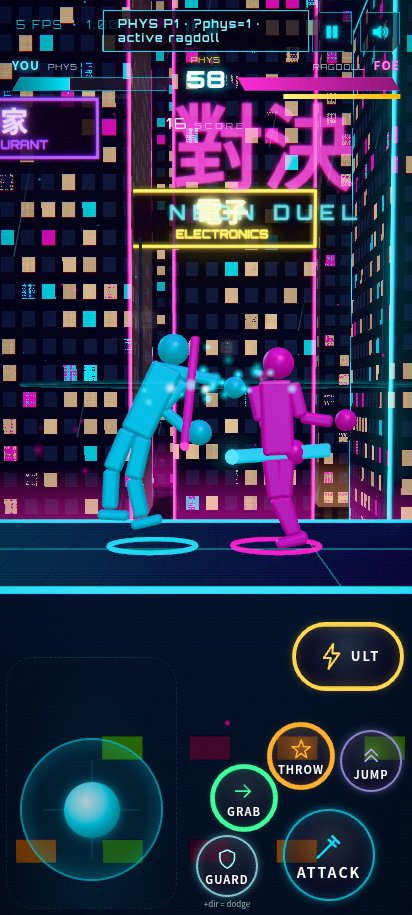
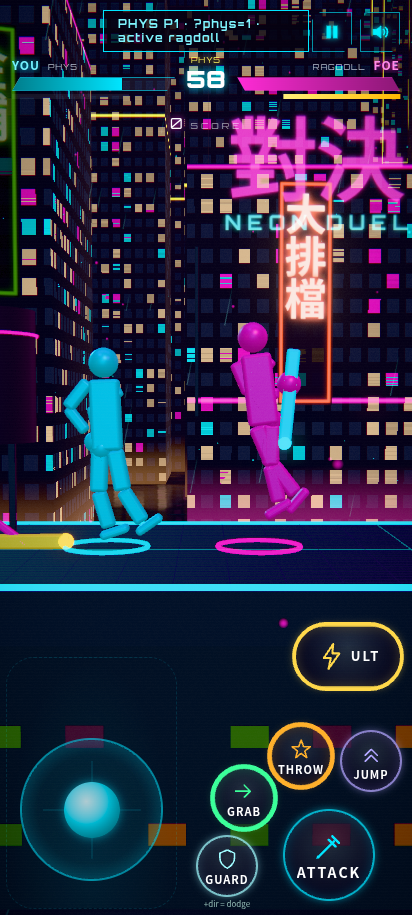
phys: visible kung-fu chamber — fix arm targets + longer windup
Stand uses raised guard (not hanging arms). Punch windup pulls lead fist
behind torso then thrust snaps forward (corrected joint signs). Longer
phases, speed-capped arm motors. Before/after shots under docs/shots/phys.

diff --git a/js/phys/ragdoll.js b/js/phys/ragdoll.js
@@ -22,18 +22,19 @@ export const POSE = { STAND: 'stand', WALK: 'walk', PUNCH: 'punch', HIT: 'hit', 
 
 export const SOFT = {
   // Pose motors: legs firm, arms softer; light upright assist; KO limp unlocks.
-  gain: 14, hipT: 78, knT: 58, ankT: 44, shT: 28, elT: 22, neckT: 14, wrT: 8,
+  gain: 14, hipT: 78, knT: 58, ankT: 44, shT: 38, elT: 32, neckT: 14, wrT: 10,
   upright: 48, uprightD: 14, walkK: 16, flinchT: 0.22,
   punchReach: 1.05, punchDmg: 16,
-  // Kung-fu punch phases (seconds)
-  punchWindup: 0.12, punchThrust: 0.16, punchRecover: 0.14,
+  // Kung-fu punch phases — long enough to READ on 30–60fps
+  punchWindup: 0.32, punchThrust: 0.22, punchRecover: 0.20,
   balanceBoost: 1.6, walkHz: 2.4,
 };
 
 /** Base joint targets (Landfall-style active ragdoll poses). */
 export const POSE_STAND = {
   hipF: 0.1, hipB: -0.06, knF: 0.28, knB: 0.25, ankF: 0.04, ankB: 0.04,
-  shF: -0.4, shB: 0.3, elF: 0.6, elB: 0.55, neck: 0, wrF: 0, wrB: 0,
+  // Raised guard — fists up, elbows bent (not hanging straight down)
+  shF: -1.05, shB: -0.75, elF: 1.35, elB: 1.25, neck: 0, wrF: 0.05, wrB: 0.05,
 };
 
 /** Neon weapon catalogue (original CYBER props — not Landfall clones). */
@@ -262,10 +263,12 @@ export function makePhysWorld() {
   return { world, a, b, weapons, events, ground };
 }
 
-function setMotor(j, targetAngle, gain, maxTorque) {
+function setMotor(j, targetAngle, gain, maxTorque, maxSpeed = 14) {
   if (!j) return;
   const ang = j.getJointAngle();
-  j.setMotorSpeed((targetAngle - ang) * gain);
+  let spd = (targetAngle - ang) * gain;
+  if (maxSpeed != null && Math.abs(spd) > maxSpeed) spd = Math.sign(spd) * maxSpeed;
+  j.setMotorSpeed(spd);
   if (maxTorque != null) j.setMaxMotorTorque(maxTorque);
 }
 
@@ -345,50 +348,57 @@ function walkPoseTargets(phase, face) {
   };
 }
 
-/** Kung-fu punch: windup (chamber) → thrust (extend) → recover. */
+/** Kung-fu punch: windup (chamber) → thrust (extend) → recover.
+ *  Targets are EXAGGERATED so chamber/thrust read clearly in silhouette. */
 function punchPoseTargets(face, phase = 'thrust') {
+  const f = face || 1;
   const base = {
     ...POSE_STAND,
-    hipF: POSE_STAND.hipF + 0.05,
-    hipB: POSE_STAND.hipB - 0.02,
-    knF: POSE_STAND.knF + 0.08,
-    knB: POSE_STAND.knB + 0.05,
-    // rear guard hand stays up
-    shB: 0.35 * face,
-    elB: 1.05,
-    neck: -0.06 * face,
+    hipF: POSE_STAND.hipF + 0.06,
+    hipB: POSE_STAND.hipB - 0.03,
+    knF: POSE_STAND.knF + 0.1,
+    knB: POSE_STAND.knB + 0.06,
+    // off-hand stays in high guard
+    shB: -1.1,
+    elB: 1.55,
+    neck: -0.05 * f,
     wrF: 0, wrB: 0,
   };
   if (phase === 'windup') {
-    // Chamber: fist pulls back near ribs, elbow bent
+    // CHAMBER: lead fist pulls BACK behind torso, elbow cocked (readable silhouette)
+    // Joint map (face+1): negative sh ⇒ fist behind; high el ⇒ bent.
     return {
       ...base,
-      hipF: base.hipF - 0.06 * face,
-      shF: 0.85 * face,   // shoulder back
-      elF: 1.85,          // elbow cocked
-      wrF: 0.15,
-      neck: 0.12 * face,
+      hipF: base.hipF - 0.06 * f,
+      shF: -1.9 * f,    // clearly behind torso
+      elF: 2.25,        // cocked (limit 2.7)
+      wrF: 0.25,
+      neck: 0.15 * f,
+      shB: -1.15,
+      elB: 1.55,
     };
   }
   if (phase === 'recover') {
-    // Ease fist back toward stand / guard
     return {
       ...base,
-      shF: -0.55 * face,
-      elF: 0.85,
-      shB: 0.25 * face,
-      elB: 0.75,
+      shF: POSE_STAND.shF,
+      elF: POSE_STAND.elF,
+      shB: POSE_STAND.shB,
+      elB: POSE_STAND.elB,
       neck: 0,
     };
   }
-  // thrust — full extension forward
+  // THRUST: lead arm snaps FORWARD toward foe, elbow opens
+  // Joint map (face+1): positive sh ⇒ fist forward/right.
   return {
     ...base,
-    hipF: base.hipF + 0.08,
-    shF: -1.75 * face,  // shoulder snaps forward
-    elF: 0.2,           // nearly straight (stay inside elbow limits)
-    wrF: -0.1,
-    neck: -0.12 * face,
+    hipF: base.hipF + 0.1,
+    shF: 2.25 * f,    // forward reach
+    elF: 0.15,        // nearly straight
+    wrF: -0.15,
+    neck: -0.15 * f,
+    shB: -0.75,
+    elB: 1.35,
   };
 }
 
@@ -418,7 +428,7 @@ function poseTargets(doll, intent) {
     default: {
       const st = { ...POSE_STAND };
       if (intent.guard) {
-        st.shF = -1.15; st.shB = -0.95; st.elF = 1.45; st.elB = 1.25;
+        st.shF = -1.4; st.shB = -1.25; st.elF = 1.7; st.elB = 1.55;
         st.hipF = 0.16; st.hipB = 0.05; st.knF = 0.4; st.knB = 0.38;
       }
       return st;
@@ -525,8 +535,10 @@ export function driveRagdoll(doll, intent, dt, world, weapons, foe = null) {
   const thrusting = doll.punchPhase === 'thrust';
   const winding = doll.punchPhase === 'windup';
   // Firm but solver-safe — too much torque blows the elbow past limits
-  const armG = g * (thrusting ? 1.55 : winding ? 1.4 : punching ? 1.15 : 0.9);
-  const armT = stiff * softMul * (thrusting ? 1.55 : winding ? 1.45 : punching ? 1.2 : 1);
+  // Arm drive: moderate gain + speed cap so exaggerated targets arrive without blowing joints
+  const armG = g * (thrusting ? 1.15 : winding ? 1.25 : punching ? 1.05 : 0.95);
+  const armT = stiff * softMul * (thrusting ? 1.7 : winding ? 1.8 : punching ? 1.3 : 1);
+  const armSpd = thrusting ? 14 : winding ? 11 : 9;
 
   setMotor(J.hipF, targets.hipF, legG, SOFT.hipT * legT);
   setMotor(J.hipB, targets.hipB, legG, SOFT.hipT * legT);
@@ -534,10 +546,10 @@ export function driveRagdoll(doll, intent, dt, world, weapons, foe = null) {
   setMotor(J.knB, targets.knB, legG, SOFT.knT * legT);
   if (J.ankF) setMotor(J.ankF, targets.ankF, legG, SOFT.ankT * legT);
   if (J.ankB) setMotor(J.ankB, targets.ankB, legG, SOFT.ankT * legT);
-  setMotor(J.shF, targets.shF, armG, SOFT.shT * armT);
-  setMotor(J.shB, targets.shB, g * 0.85, SOFT.shT * stiff * softMul);
-  setMotor(J.elF, targets.elF, armG, SOFT.elT * armT);
-  setMotor(J.elB, targets.elB, g * 0.85, SOFT.elT * stiff * softMul);
+  setMotor(J.shF, targets.shF, armG, SOFT.shT * armT, armSpd);
+  setMotor(J.shB, targets.shB, g * 0.9, SOFT.shT * stiff * softMul, armSpd);
+  setMotor(J.elF, targets.elF, armG, SOFT.elT * armT, armSpd);
+  setMotor(J.elB, targets.elB, g * 0.9, SOFT.elT * stiff * softMul, armSpd);
   setMotor(J.neck, targets.neck ?? 0, g, SOFT.neckT * softMul);
   setMotor(J.wrF, targets.wrF ?? 0, g * 0.5, SOFT.wrT * softMul);
   setMotor(J.wrB, targets.wrB ?? 0, g * 0.5, SOFT.wrT * softMul);

diff --git a/js/phys/spike.js b/js/phys/spike.js
@@ -44,6 +44,15 @@ export async function runPhysSpike(ctx) {
         applyHit(d, dmg, (who === 'a' ? phys.b : phys.a).parts.torso.getPosition().x);
       },
       forceMx: (v) => { S._forceMx = v; },
+      /** Freeze a punch phase for screenshots: 'windup'|'thrust'|'recover'|null */
+      holdPunchPhase: (who, phase) => {
+        const d = who === 'a' ? phys.a : phys.b;
+        if (!phase) { d.punchPhase = null; d.punchPhaseT = 0; d.punchActive = 0; return; }
+        d.pose = 'punch'; d.punchPhase = phase; d.punchPhaseT = 0.01;
+        d.punchActive = phase === 'thrust' ? 0.5 : 0;
+        // pin phase by large remaining time via negative tick workaround: refresh each frame
+        S._holdPunch = { who, phase };
+      },
       jump: () => { S._forceJump = true; },
       grab: () => { S._forceGrab = true; },
       throw: () => { S._forceThrow = true; },
@@ -322,6 +331,13 @@ export async function runPhysSpike(ctx) {
       throwIt: S._forceThrow || false,
     };
     S._forcePunch = false; S._forceJump = false; S._forceGrab = false; S._forceThrow = false;
+    if (S._holdPunch) {
+      const d = S._holdPunch.who === 'a' ? phys.a : phys.b;
+      d.punchPhase = S._holdPunch.phase;
+      d.punchPhaseT = 0.05;
+      d.pose = 'punch';
+      d.punchActive = S._holdPunch.phase === 'thrust' ? 0.3 : 0;
+    }
 
     const intentB = aiThink(dt);
     driveRagdoll(phys.a, intentA, dt, phys.world, phys.weapons, phys.b);
